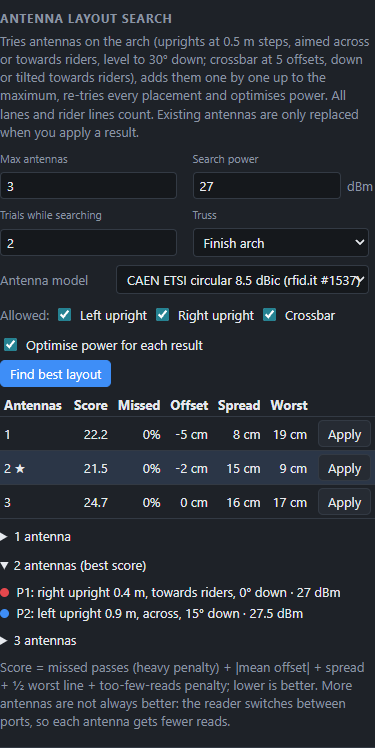
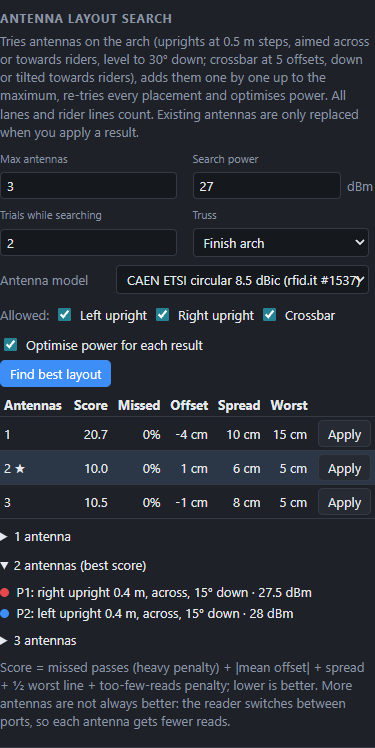
"What limits the read" heatmap; less pessimistic defaults (Rx -80 dBm, 6 dB bike shadow)
- New slice colour mode classifying each point by the best antenna: readable, tag mounting
  (orientation / bike shadow / metal), obstacles / table edge, tag not powered, reply below
  Rx sensitivity; legend in the sidebar and the 3D view; computed only when selected
- Defaults: reader Rx sensitivity -80 dBm; Dogbone bike shadow 6 dB (side plate 8 dB)
- Manual: limit mode with before/after screenshots, updated defaults and lessons learned

diff --git a/web/src/rf/grid.ts b/web/src/rf/grid.ts
@@ -66,7 +66,17 @@ export interface SliceSpec {
   /** horizontal: absolute elevation (Y). finish: X position of the vertical plane. */
   at: number;
   step: number;
+  withLimit?: boolean; // also classify what limits the read at each point (3× slower)
 }
+
+/** What limits the read at a point (best antenna). */
+export const LIMIT = {
+  readable: 0,
+  mounting: 1, // an ideal tag (no orientation null, bike shadow or metal) would be read
+  obstacles: 2, // without obstacles / the raised track body it would be read
+  notPowered: 3, // forward link: the tag does not get enough power
+  replyWeak: 4, // reverse link: the reply is below the reader's Rx sensitivity
+} as const;
 
 export interface SliceData {
   spec: SliceSpec;
@@ -79,6 +89,7 @@ export interface SliceData {
   antennaIds: string[];
   margin: Float32Array[]; // per antenna, index u + nu * v
   rssi: Float32Array[];
+  limit: Uint8Array | null; // LIMIT code per point when requested
 }
 
 export function computeSlice(setup: Setup, spec: SliceSpec): SliceData {
@@ -114,5 +125,33 @@ export function computeSlice(setup: Setup, spec: SliceSpec): SliceData {
     spec, uMin, vMin, nu, nv, step: spec.step,
     antennaIds: ctx.antennas.map((a) => a.antenna.id),
     margin, rssi,
+    limit: spec.withLimit ? classifyLimits(setup, spec, uMin, vMin, nu, nv, margin) : null,
   };
+}
+
+function classifyLimits(setup: Setup, spec: SliceSpec, uMin: number, vMin: number, nu: number, nv: number, margin: Float32Array[]): Uint8Array {
+  // ideal tag: no dipole null, no bike shadow, no metal – same sensitivity, gain and losses otherwise
+  const ideal = { ...setup.tag, axis: 'isotropic' as const, side: 'none' as const, shadowDb: 0, nearMetal: false };
+  const ctxIdeal = buildLinkCtx({ ...setup, tag: ideal });
+  const ctxClear = buildLinkCtx({ ...setup, tag: ideal, obstacles: [], env: { ...setup.env, terrainBlockDb: 0 } });
+  const poseIdeal = tagPose(ideal, DIR, RIGHT);
+  const out = new Uint8Array(nu * nv);
+  for (let v = 0; v < nv; v++)
+    for (let u = 0; u < nu; u++) {
+      const i = u + nu * v;
+      if (margin.some((m) => m[i] >= 0)) continue; // readable
+      const uu = uMin + u * spec.step, vv = vMin + v * spec.step;
+      const p: Vec3 = spec.kind === 'horizontal' ? [uu, spec.at, vv] : [spec.at, vv, uu];
+      if (ctxIdeal.antennas.some((a) => evalLink(ctxIdeal, a, p, poseIdeal).margin >= 0)) { out[i] = LIMIT.mounting; continue; }
+      let best: { margin: number; fwd: number; rev: number } | null = null;
+      for (const a of ctxClear.antennas) {
+        const r = evalLink(ctxClear, a, p, poseIdeal);
+        if (!best || r.margin > best.margin)
+          best = { margin: r.margin, fwd: r.pTagDbm - ideal.sensitivityDbm, rev: r.rssiDbm - setup.env.readerSensDbm };
+      }
+      if (best && best.margin >= 0) out[i] = LIMIT.obstacles;
+      else if (best && best.fwd < best.rev) out[i] = LIMIT.notPowered;
+      else out[i] = LIMIT.replyWeak;
+    }
+  return out;
 }

diff --git a/web/src/ui/SetupPanel.tsx b/web/src/ui/SetupPanel.tsx
@@ -2,6 +2,7 @@ import { useMemo, useRef, useState } from 'react';
 import type { SegmentKind, Setup, Track, Truss } from '../model/types';
 import { TRACK_PRESETS, type TrackPreset } from '../presets/templates';
 import { elevationAtU, finishU, segmentLength, segmentStarts, totalLength, widthAtU } from '../rf/track';
+import { LIMIT_LEGEND } from '../scene/FieldViews';
 import { useStore } from '../store';
 import { Check, NumField, Section, Select, Slider } from './controls';
 
@@ -84,9 +85,11 @@ export function SetupPanel() {
             { value: 'overlap', label: 'Antenna overlap count' },
             { value: 'rssi', label: 'Best RSSI' },
             { value: 'margin', label: 'Link margin (0–20 dB)' },
+            { value: 'limit', label: 'What limits the read' },
           ]}
           onChange={(sliceMode) => setView({ sliceMode })}
         />
+        {view.sliceMode === 'limit' && <LimitLegend />}
         <Slider label="Slice opacity" value={view.sliceOpacity} min={0.1} max={1} step={0.05} onChange={(sliceOpacity) => setView({ sliceOpacity })} />
         <Check label="Simulated passes & virtual wall" value={view.showPasses} onChange={(showPasses) => setView({ showPasses })} />
       </Section>
@@ -258,5 +261,17 @@ function ArchSection({ trusses }: { trusses: Truss[] }) {
       ))}
       <p className="muted">Antennas mounted on the truss move with it when you change height, span or position.</p>
     </Section>
+  );
+}
+
+export function LimitLegend() {
+  return (
+    <ul className="legend-list">
+      {LIMIT_LEGEND.map((l) => (
+        <li key={l.label} title={l.hint}>
+          <span className="dot" style={{ background: l.color, borderRadius: 2 }} /> <b>{l.label}</b> <span className="muted">– {l.hint}</span>
+        </li>
+      ))}
+    </ul>
   );
 }

diff --git a/web/src/useCompute.ts b/web/src/useCompute.ts
@@ -12,6 +12,7 @@ export function useCompute() {
   const gen = useRef(0);
   const simGen = useRef(0);
 
+  const withLimit = view.sliceMode === 'limit';
   useEffect(() => {
     const my = ++gen.current;
     const timer = setTimeout(async () => {
@@ -19,8 +20,8 @@ export function useCompute() {
       try {
         const [zones, sliceH, sliceF] = await Promise.all([
           view.showZones ? computeZonesAsync(setup, view.zoneStep) : Promise.resolve([]),
-          view.showHorizontal ? computeSliceAsync(setup, { kind: 'horizontal', at: finishElevation(setup.track) + view.sliceHeight, step: 0.1 }) : Promise.resolve(null),
-          view.showFinishSlice ? computeSliceAsync(setup, { kind: 'finish', at: 0, step: 0.05 }) : Promise.resolve(null),
+          view.showHorizontal ? computeSliceAsync(setup, { kind: 'horizontal', at: finishElevation(setup.track) + view.sliceHeight, step: 0.1, withLimit }) : Promise.resolve(null),
+          view.showFinishSlice ? computeSliceAsync(setup, { kind: 'finish', at: 0, step: 0.05, withLimit }) : Promise.resolve(null),
         ]);
         if (my === gen.current) setFields({ zones, sliceH, sliceF, computing: false });
       } catch (e) {
@@ -29,7 +30,7 @@ export function useCompute() {
       }
     }, 200);
     return () => clearTimeout(timer);
-  }, [setup, view.showZones, view.zoneStep, view.showHorizontal, view.sliceHeight, view.showFinishSlice, setFields]);
+  }, [setup, view.showZones, view.zoneStep, view.showHorizontal, view.sliceHeight, view.showFinishSlice, withLimit, setFields]);
 
   useEffect(() => {
     if (!view.autoSim) return;

diff --git a/web/src/scene/FieldViews.tsx b/web/src/scene/FieldViews.tsx
@@ -54,6 +54,15 @@ function ramp(t: number): [number, number, number] {
 }
 const OVERLAP = ['#000000', '#4c78a8', '#54a24b', '#f58518', '#e45756'];
 
+/** Colours and labels of the "What limits the read" mode, indexed by LIMIT code. */
+export const LIMIT_LEGEND: { color: string; label: string; hint: string }[] = [
+  { color: '#30a46c', label: 'Readable', hint: 'at least one antenna reads the tag' },
+  { color: '#c77dff', label: 'Tag mounting', hint: 'dipole orientation, bike shadow or metal – an ideal tag would be read' },
+  { color: '#f5a623', label: 'Obstacles / table edge', hint: 'without obstacles and the raised track body it would be read' },
+  { color: '#e5484d', label: 'Tag not powered', hint: 'forward link: too little power reaches the tag' },
+  { color: '#3e8ef7', label: 'Reply too weak', hint: 'the tag answers, but below the reader Rx sensitivity' },
+];
+
 function hexRgb(hex: string): [number, number, number] {
   const n = parseInt(hex.slice(1), 16);
   return [(n >> 16) & 255, (n >> 8) & 255, n & 255];
@@ -76,7 +85,10 @@ export function sliceToRgba(d: SliceData, mode: SliceMode, ports: number[], read
       }
       let rgb: [number, number, number] = [0, 0, 0];
       let alpha = 0;
-      if (count > 0) {
+      if (mode === 'limit' && d.limit) {
+        rgb = hexRgb(LIMIT_LEGEND[d.limit[i]].color);
+        alpha = d.limit[i] === 0 ? 150 : 255;
+      } else if (count > 0) {
         alpha = 255;
         if (mode === 'margin') rgb = ramp(best / 20);
         else if (mode === 'rssi') rgb = ramp((bestRssi - readerSens) / (-30 - readerSens));

diff --git a/web/src/presets/profiles.ts b/web/src/presets/profiles.ts
@@ -75,13 +75,13 @@ export const TAG_PRESETS: TagProfile[] = [
     tiltBackDeg: 27,
     mount: 'fork',
     side: 'left',
-    shadowDb: 10,
+    shadowDb: 6,
     nearMetal: true,
     metalGapMm: 15,
     bodyLossDb: 3,
     polLossDb: 3,
     backscatterLossDb: 8,
-    notes: DOGBONE_NOTE + ' Fork leg: dipole follows the fork rake; fork and wheel shadow the right side. Assumes the inlay sits on the plastic fork guard ~15 mm from the metal tube – directly on the tube it will hardly read.',
+    notes: DOGBONE_NOTE + ' Fork leg: dipole follows the fork rake; fork and wheel shadow the right side (≈ 6 dB, estimate – check with live reads). Assumes the inlay sits on the plastic fork guard ~15 mm from the metal tube – directly on the tube it will hardly read.',
   },
   {
     id: 'dogbone-plate-h',
@@ -93,7 +93,7 @@ export const TAG_PRESETS: TagProfile[] = [
     tiltBackDeg: 0,
     mount: 'front-plate',
     side: 'front',
-    shadowDb: 8,
+    shadowDb: 6,
     nearMetal: false,
     metalGapMm: 0,
     bodyLossDb: 2,
@@ -111,7 +111,7 @@ export const TAG_PRESETS: TagProfile[] = [
     tiltBackDeg: 25,
     mount: 'front-plate',
     side: 'front',
-    shadowDb: 8,
+    shadowDb: 6,
     nearMetal: false,
     metalGapMm: 0,
     bodyLossDb: 2,
@@ -129,7 +129,7 @@ export const TAG_PRESETS: TagProfile[] = [
     tiltBackDeg: 0,
     mount: 'side-plate',
     side: 'left',
-    shadowDb: 12,
+    shadowDb: 8,
     nearMetal: false,
     metalGapMm: 0,
     bodyLossDb: 3,

diff --git a/web/src/App.tsx b/web/src/App.tsx
@@ -1,4 +1,5 @@
 import { useEffect, useState } from 'react';
+import { LIMIT_LEGEND } from './scene/FieldViews';
 import { Viewport, type CameraPreset } from './scene/Viewport';
 import { useStore } from './store';
 import { HardwarePanel } from './ui/HardwarePanel';
@@ -17,6 +18,7 @@ export function App() {
   const setMode = useStore((s) => s.setTransformMode);
   const select = useStore((s) => s.select);
   const name = useStore((s) => s.setup.name);
+  const view = useStore((s) => s.view);
 
   useEffect(() => {
     const onKey = (e: KeyboardEvent) => {
@@ -42,6 +44,16 @@ export function App() {
           <strong>{name}</strong>
           {computing && <span className="muted"> · computing…</span>}
         </div>
+        {view.sliceMode === 'limit' && (view.showHorizontal || view.showFinishSlice) && (
+          <div className="overlay viewport-legend">
+            <b>What limits the read</b>
+            {LIMIT_LEGEND.map((l) => (
+              <span key={l.label} title={l.hint}>
+                <span className="dot" style={{ background: l.color, borderRadius: 2 }} /> {l.label}
+              </span>
+            ))}
+          </div>
+        )}
         <div className="overlay bottom-left">
           {camBtn('perspective', '3D')}
           {camBtn('top', 'Top')}

diff --git a/web/src/rf/scene.test.ts b/web/src/rf/scene.test.ts
@@ -76,3 +76,20 @@ describe('terrain and finish table', () => {
     console.log(`zones @25cm: ${(performance.now() - t0).toFixed(0)} ms`);
   });
 });
+
+describe('what limits the read', () => {
+  it('classifies orientation, reverse link and readable points', async () => {
+    const { computeSlice, LIMIT } = await import('./grid');
+    const s = makeDefaultSetup('straight');
+    // only the overhead antenna: a vertical tag right below it sits in the dipole null
+    const top = s.antennas.find((a) => a.mount?.member === 'top')!;
+    const only = { ...s, antennas: [top], tag: { ...s.tag, tiltBackDeg: 0, side: 'none' as const, nearMetal: false } };
+    const d = computeSlice(only, { kind: 'finish', at: 0, step: 0.25, withLimit: true });
+    const at = (z: number, y: number) => d.limit![Math.round((z - d.uMin) / d.step) + d.nu * Math.round((y - d.vMin) / d.step)];
+    expect(at(0, 0.5)).toBe(LIMIT.mounting); // straight below: orientation null
+    const codes = new Set(d.limit);
+    expect(codes.has(LIMIT.readable) || codes.has(LIMIT.mounting)).toBe(true);
+    // far outside: nothing reaches the tag or the reply is too weak
+    expect([LIMIT.notPowered, LIMIT.replyWeak]).toContain(at(d.uMin + d.step, d.vMin + d.step));
+  });
+});

diff --git a/web/src/rf/tag.test.ts b/web/src/rf/tag.test.ts
@@ -32,6 +32,8 @@ describe('tag orientation and bike effects', () => {
     const left = { ...s.antennas[0], mount: undefined, position: [0, 1, -4] as [number, number, number], yawDeg: 0, pitchDeg: 0 };
     const right = { ...left, id: 'r', port: 2, position: [0, 1, 4] as [number, number, number], yawDeg: 180 };
     const links = tagLinks({ ...s, antennas: [left, right], env: { ...s.env, groundReflection: false } }, place);
-    expect(links[0].margin - links[1].margin).toBeCloseTo(dogFork.shadowDb * 2, 1); // shadow counts both ways on the margin via RSSI
+    // symmetric antennas: the shadow costs the right antenna once on the tag power and twice on the RSSI
+    expect(links[0].pTagDbm - links[1].pTagDbm).toBeCloseTo(dogFork.shadowDb, 1);
+    expect(links[0].rssiDbm - links[1].rssiDbm).toBeCloseTo(dogFork.shadowDb * 2, 1);
   });
 });

diff --git a/web/src/styles.css b/web/src/styles.css
@@ -108,3 +108,6 @@ button.link:hover { text-decoration: underline; }
 .layout-list li { padding: 2px 0; }
 .credits a { color: var(--accent); }
 .subhead { margin: 8px 0 2px; font-weight: 600; color: var(--text); }
+.legend-list { list-style: none; padding: 0; margin: 4px 0 8px; font-size: 12px; }
+.legend-list li { margin: 3px 0; }
+.viewport-legend { top: 10px; right: 10px; left: auto; flex-direction: column; align-items: flex-start; gap: 2px; font-size: 12px; }

diff --git a/web/src/store.ts b/web/src/store.ts
@@ -7,7 +7,7 @@ import { makeAntenna, makeDefaultSetup, makeSegment, makeTrack, makeTruss, newId
 import type { SliceData, ZoneMesh } from './rf/grid';
 import type { OptimizeProgress, SimResult } from './rf/passSim';
 
-export type SliceMode = 'margin' | 'rssi' | 'overlap' | 'dominant';
+export type SliceMode = 'margin' | 'rssi' | 'overlap' | 'dominant' | 'limit';
 export type TransformMode = 'translate' | 'rotate';
 
 export interface ViewSettings {

diff --git a/web/src/rf/worker.ts b/web/src/rf/worker.ts
@@ -27,7 +27,7 @@ ctx.onmessage = (ev: MessageEvent<WorkerRequest>) => {
       }
       case 'slice': {
         const s = computeSlice(req.setup, req.spec);
-        ctx.postMessage({ id: req.id, ok: true, result: s }, [...s.margin, ...s.rssi].map((a) => a.buffer));
+        ctx.postMessage({ id: req.id, ok: true, result: s }, [...s.margin, ...s.rssi, ...(s.limit ? [s.limit] : [])].map((a) => a.buffer));
         break;
       }
       case 'sim':

diff --git a/web/src/presets/templates.ts b/web/src/presets/templates.ts
@@ -121,7 +121,7 @@ export function makeDefaultSetup(preset: TrackPreset = 'straight'): Setup {
       ground: groundPreset('clay-moist'),
       terrainGround: groundPreset('grass'),
       terrainBlockDb: 25,
-      readerSensDbm: -70,
+      readerSensDbm: -80,
       freqMHz: 866.5,
       etsiLimitEirpDbm: 35.15,
     },
